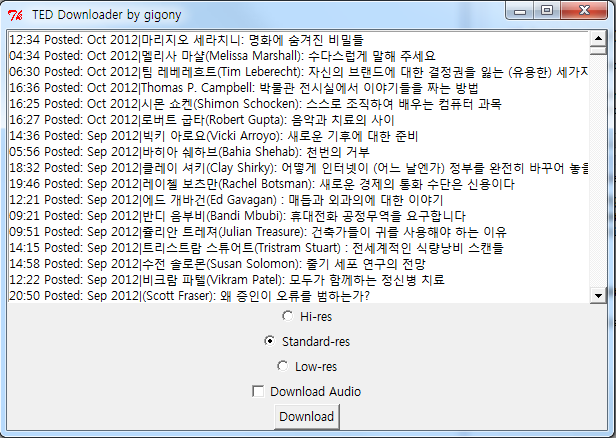
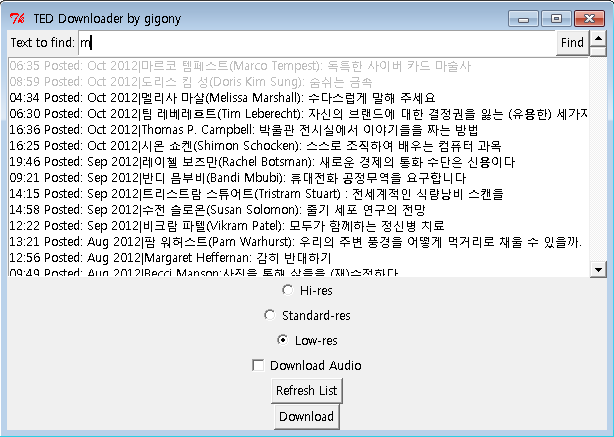
version 2.3(fixed)

diff --git a/TEDDownloaderGUI.py b/TEDDownloaderGUI.py
@@ -327,7 +327,7 @@ class GUIApp:
         
         self.load_video_list()
     def find_btn(self):
-        pattern=self.edit.get()
+        pattern=self.edit.get().lower()
         
         if pattern=='':
             self.indexList=range(len(self.titleList))
@@ -337,7 +337,7 @@ class GUIApp:
             self.indexList=[]
             count=0
             for title in self.titleList:
-                if title.find(pattern)>=0:
+                if title.lower().find(pattern)>=0:
                     self.indexList+=[count]
                 count+=1
             self.update_video_list()        

diff --git a/CHANGELOG.md b/CHANGELOG.md
@@ -6,7 +6,7 @@ Current release 2.3
 2.3
 ---
 
-*	Load the video list from the file(' titleList-address.txt').
+*	Load the video list from the file('titleList-address.txt').
 *   Added a refreshing video list feature.
 *   Added a find button
 *   Log file is saved in '/VIDEO/log.txt'

diff --git a/README.md b/README.md
@@ -21,7 +21,7 @@ Download
 
 ### [Click here to download latest version](https://github.com/gigony/TED-Downloader/raw/master/releaseFiles/TEDDownloader_ver2.3.zip)
 
-Current release is **v2.2**. See the [changelog]
+Current release is **v2.3**. See the [changelog]
 
 
 
